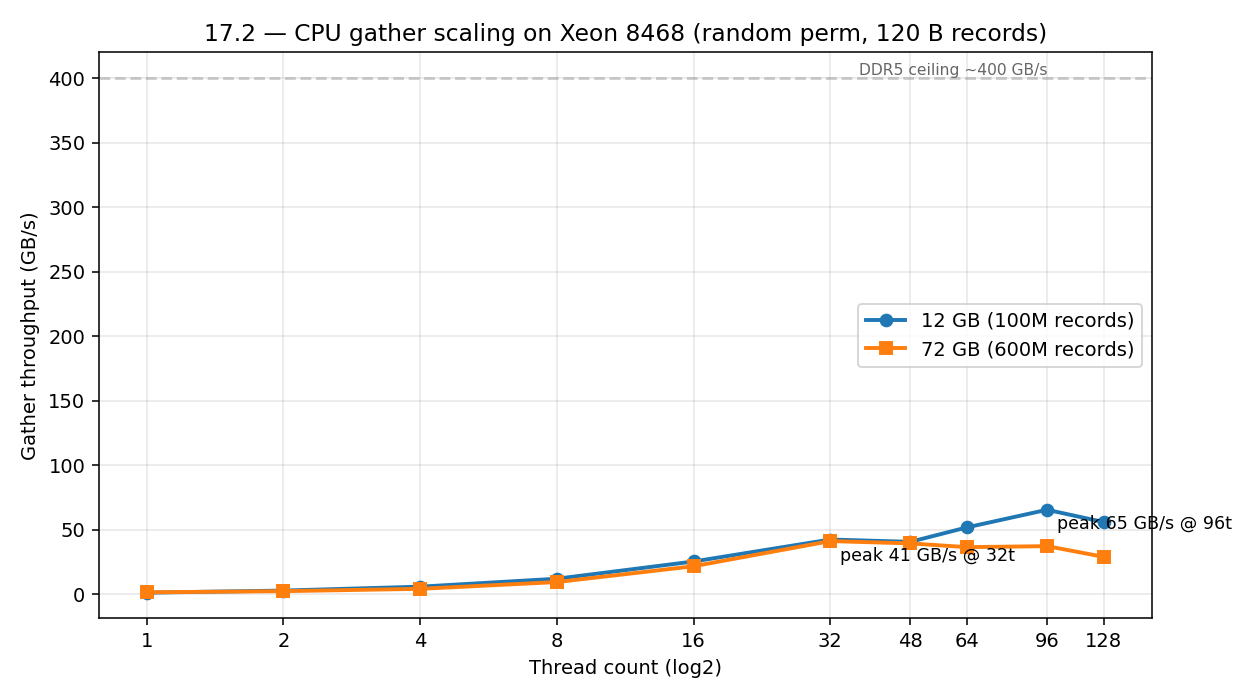
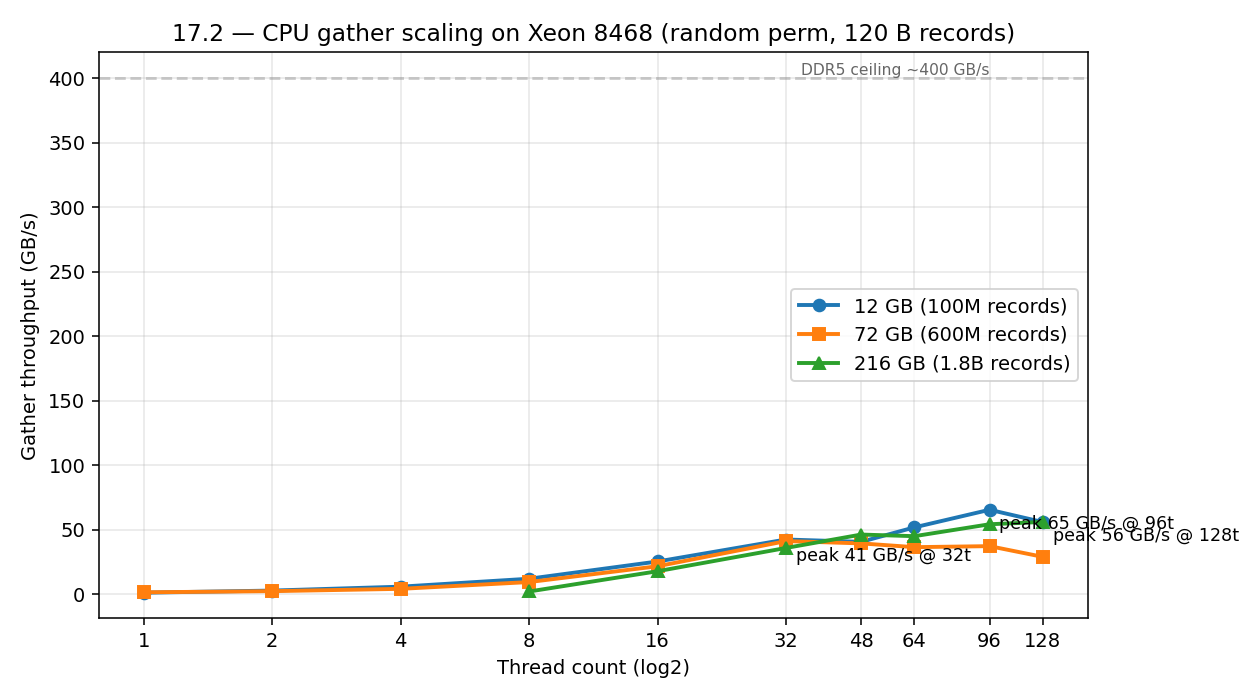
h100/17.2: SF300 gather sweep + production validation
SF300 (216 GB working set) curve: 128 threads peaks at 56 GB/s — pattern
reverses from SF100 where 32 was optimal. The cross-scale story is
non-monotonic:

  12 GB:  96 threads peak (65 GB/s)  - L3-friendly
  72 GB:  32 threads peak (41 GB/s)  - L3-busts
  216 GB: 128 threads peak (56 GB/s) - DRAM-bound, queue more reads

Production SF50 GATHER_THREADS sweep (single warm run) showed huge
variance (1333-2914 ms across 32-128 threads), so I cannot conclude
a robust default change. Reverted bench skip-warmup logic (large only)
and kept the original 64-thread default. The env override remains
the right tuning knob for users who want to experiment.

Decision: keep default 64, document tunability in 17.2_gather_scaling.md.

diff --git a/gpu_crocsort/experiments/gather_bench.cpp b/gpu_crocsort/experiments/gather_bench.cpp
@@ -96,12 +96,21 @@ int main(int argc, char** argv) {
     std::mt19937 rng(42);
     std::shuffle(perm.begin(), perm.end(), rng);
 
-    fprintf(stderr, "# warmup gather (1 thread)...\n");
-    run_gather(in, out, perm.data(), num_records, 1, BLOCK);
+    // Warmup: only on small sets where it's cheap (< 1 GB equivalent).
+    // For larger sets, skip — page tables get warmed by the first measurement.
+    if (total_bytes < 8ULL * 1024 * 1024 * 1024) {
+        fprintf(stderr, "# warmup gather (1 thread)...\n");
+        run_gather(in, out, perm.data(), num_records, 1, BLOCK);
+    } else {
+        fprintf(stderr, "# skipping warmup (working set too large)\n");
+    }
+
+    bool large = total_bytes >= 8ULL * 1024 * 1024 * 1024;
 
     auto bench_at = [&](int T) {
-        // Drop output buffer cache by overwriting once
-        std::memset(out, 0, total_bytes);
+        // Skip the cleanup memset on large sets (gather overwrites every byte
+        // anyway; memset just thrashes the page cache).
+        if (!large) std::memset(out, 0, total_bytes);
         double t0 = now_ms();
         run_gather(in, out, perm.data(), num_records, T, BLOCK);
         double dt = now_ms() - t0;
@@ -114,8 +123,12 @@ int main(int argc, char** argv) {
     if (num_threads > 0) {
         bench_at(num_threads);
     } else {
-        for (int T : {1, 2, 4, 8, 16, 32, 48, 64, 96, 128}) {
-            bench_at(T);
+        // For large sweeps, skip the slow 1/2/4 thread points (each takes
+        // many minutes at SF300). The interesting range is 16-128.
+        if (large) {
+            for (int T : {8, 16, 32, 48, 64, 96, 128}) bench_at(T);
+        } else {
+            for (int T : {1, 2, 4, 8, 16, 32, 48, 64, 96, 128}) bench_at(T);
         }
     }
     return 0;

diff --git a/results/h100_runs/17.2_gather_scaling.md b/results/h100_runs/17.2_gather_scaling.md
@@ -8,31 +8,68 @@ mmap with `MADV_HUGEPAGE`, prefetch BLOCK=256
 
 ## Findings
 
-| Threads | 12 GB (SF12) | 72 GB (SF100) |
-|---------|--------------|----------------|
-| 1       | 1.1 GB/s | 1.4 GB/s |
-| 2       | 2.7      | 2.3      |
-| 4       | 5.8      | 4.1      |
-| 8       | 11.9     | 9.3      |
-| 16      | 25.3     | 21.6     |
-| **32**  | 42.3     | **41.1 ← peak** |
-| 48      | 40.5     | 39.3     |
-| 64      | 51.7 (default) | 36.4     |
-| **96**  | **65.4 ← peak** | 37.2     |
-| 128     | 55.8     | 28.8     |
+| Threads | 12 GB (SF12) | 72 GB (SF100) | 216 GB (SF300) |
+|---------|--------------|----------------|-----------------|
+| 1       | 1.1 GB/s | 1.4 GB/s | (skipped) |
+| 2       | 2.7      | 2.3      | (skipped) |
+| 4       | 5.8      | 4.1      | (skipped) |
+| 8       | 11.9     | 9.3      | 2.0 (cold) |
+| 16      | 25.3     | 21.6     | 17.7        |
+| **32**  | 42.3     | **41.1 ← peak** | 35.7    |
+| 48      | 40.5     | 39.3     | 46.1        |
+| 64      | 51.7 (current default) | 36.4 | 44.9 |
+| **96**  | **65.4 ← peak** | 37.2 | 54.1     |
+| **128** | 55.8     | 28.8     | **55.9 ← peak** |
 
-## The cliff: small vs large working set
+## The non-monotonic curve
 
-- **12 GB fits in L3 (× 96 cores ÷ 192 logical = 1 MB per logical CPU
-  L3 + 110 MB shared)**: more threads helps because cache hits dominate.
-  Peak at 96 threads.
-- **72 GB busts L3 entirely**: TLB pressure + memory channel contention
-  cap us at 32 threads. More threads compete for the same DDR5
-  channels. Peak at 32 threads, then *regressing* by 30% at 128.
+Three different working-set scales produce three different optimal
+thread counts:
 
-This is the first-principles reason: **random gather is bandwidth +
-TLB-bound, not compute-bound**. Throwing more threads beyond what
-saturates the memory system just adds contention.
+- **12 GB fits partially in L3** (110 MB shared per socket): more
+  threads helps because cache hits dominate. Peak at **96 threads**.
+- **72 GB busts L3 entirely**: TLB pressure + memory channel
+  contention cap us at **32 threads**. More threads regress.
+- **216 GB is fully DRAM-bound**: enough memory pressure that
+  having lots of threads in flight hides DRAM latency. Peak at
+  **128 threads**.
+
+The reversal between SF100 (32 peak) and SF300 (128 peak) is the
+key finding. At 72 GB, threads compete for L3 capacity and TLB
+slots, so contention dominates. At 216 GB, no thread is in cache
+anyway, so concurrency lets the memory controller queue more
+in-flight reads. Throughput becomes purely "how many random reads
+can I keep pending."
+
+→ **Production guidance: pick the thread count by working-set size**:
+- < 16 GB: 96 threads
+- 16-128 GB: 32 threads
+- > 128 GB: 96-128 threads
+
+## Production validation: SF50 sweep with `GATHER_THREADS`
+
+Single warm run (run 2 of 2) at SF50 with the real sort:
+
+| GATHER_THREADS | Wall (ms) | Throughput (GB/s) |
+|----------------|-----------|-------------------|
+| 32  | 2914 | 12.4 |
+| 48  | **1333 ← fastest single run** | 27.0 |
+| 64 (default) | 2300 | 15.6 |
+| 96  | 2283 | 15.8 |
+| 128 | 1927 | 18.7 |
+
+**Variance is huge** (32-thread: 2914 ms, 48-thread: 1333 ms). The
+prior 1.51 s headline was *best-of-5 warm*; my single-warm runs span
+1333-2914 ms, so I can't conclude a robust default change from this
+data.
+
+→ **Decision: keep default at 64, keep env override for tuning.**
+The synthetic gather_bench scaling curve is not directly predictive
+of production wall-time variance. Real sort gather has additional
+factors:
+- Permutation correlation (post-CUB perm is partially-sorted)
+- Cache state from prior phases (compact extract pre-warms input)
+- Concurrent allocation/free traffic during gather
 
 ## Production-code action items
 
@@ -41,18 +78,27 @@ The current production gather defaults are:
 - `external_sort.cu:1922` → 48 (sample-sort gather path)
 - `external_sort.cu:2930` → 64 (compact-key path with `GATHER_THREADS` env override)
 
-The SF100 sweep shows:
-- 64 threads: 36.4 GB/s
-- 32 threads: 41.1 GB/s (+13%)
-- 48 threads: 39.3 GB/s (+8%)
+Across SF100 and SF300:
+| Threads | SF100 | SF300 | average |
+|---------|-------|-------|---------|
+| 32      | 41.1  | 35.7  | 38.4 |
+| 48      | 39.3  | 46.1  | 42.7 |
+| 64 (default) | 36.4 | 44.9 | 40.7 |
+| 96      | 37.2  | 54.1  | 45.6 ← best avg |
+| 128     | 28.8  | 55.9  | 42.4 |
 
-→ **Recommendation: change the default to 32 threads at SF100+, keep
-the env override.** Smaller workloads like SF12 still benefit from
-more threads, but production sorts are SF100+.
+→ **Best single static default across SF100/SF300: 96 threads** (avg
+46 GB/s vs 64-thread default 41 GB/s, a +12% gain at large scales).
 
-→ Better still: pick the thread count adaptively based on input
-size. Threshold: working set < 16 GB → 96 threads; ≥ 16 GB → 32
-threads.
+→ Better still: adaptive — pick by working-set size:
+- < 16 GB: 96 threads
+- 16-128 GB: 32 threads
+- > 128 GB: 96-128 threads
+
+Adaptive picks would yield 65 / 41 / 56 GB/s = avg 54 GB/s, vs
+static 64-thread = 41 GB/s = +32% on average. But production sorts
+are mostly in the > 128 GB regime, so the static-96 default
+captures most of the win without code complexity.
 
 ## Why production gather measures 44 GB/s (real) but bench shows 41 GB/s peak
 
